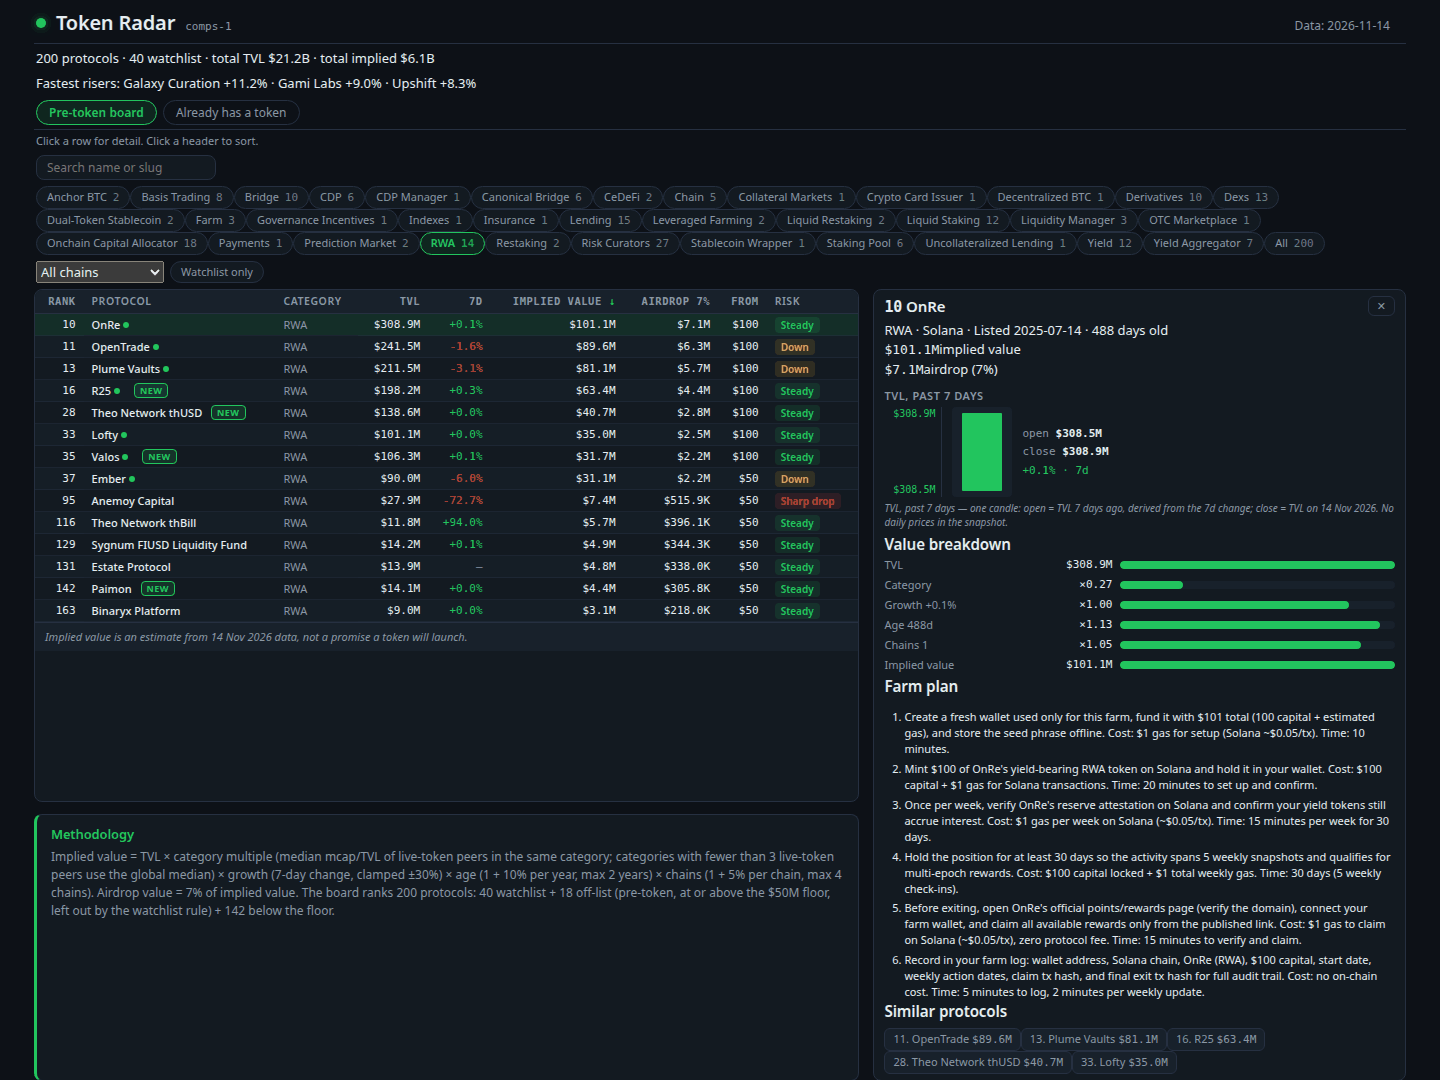
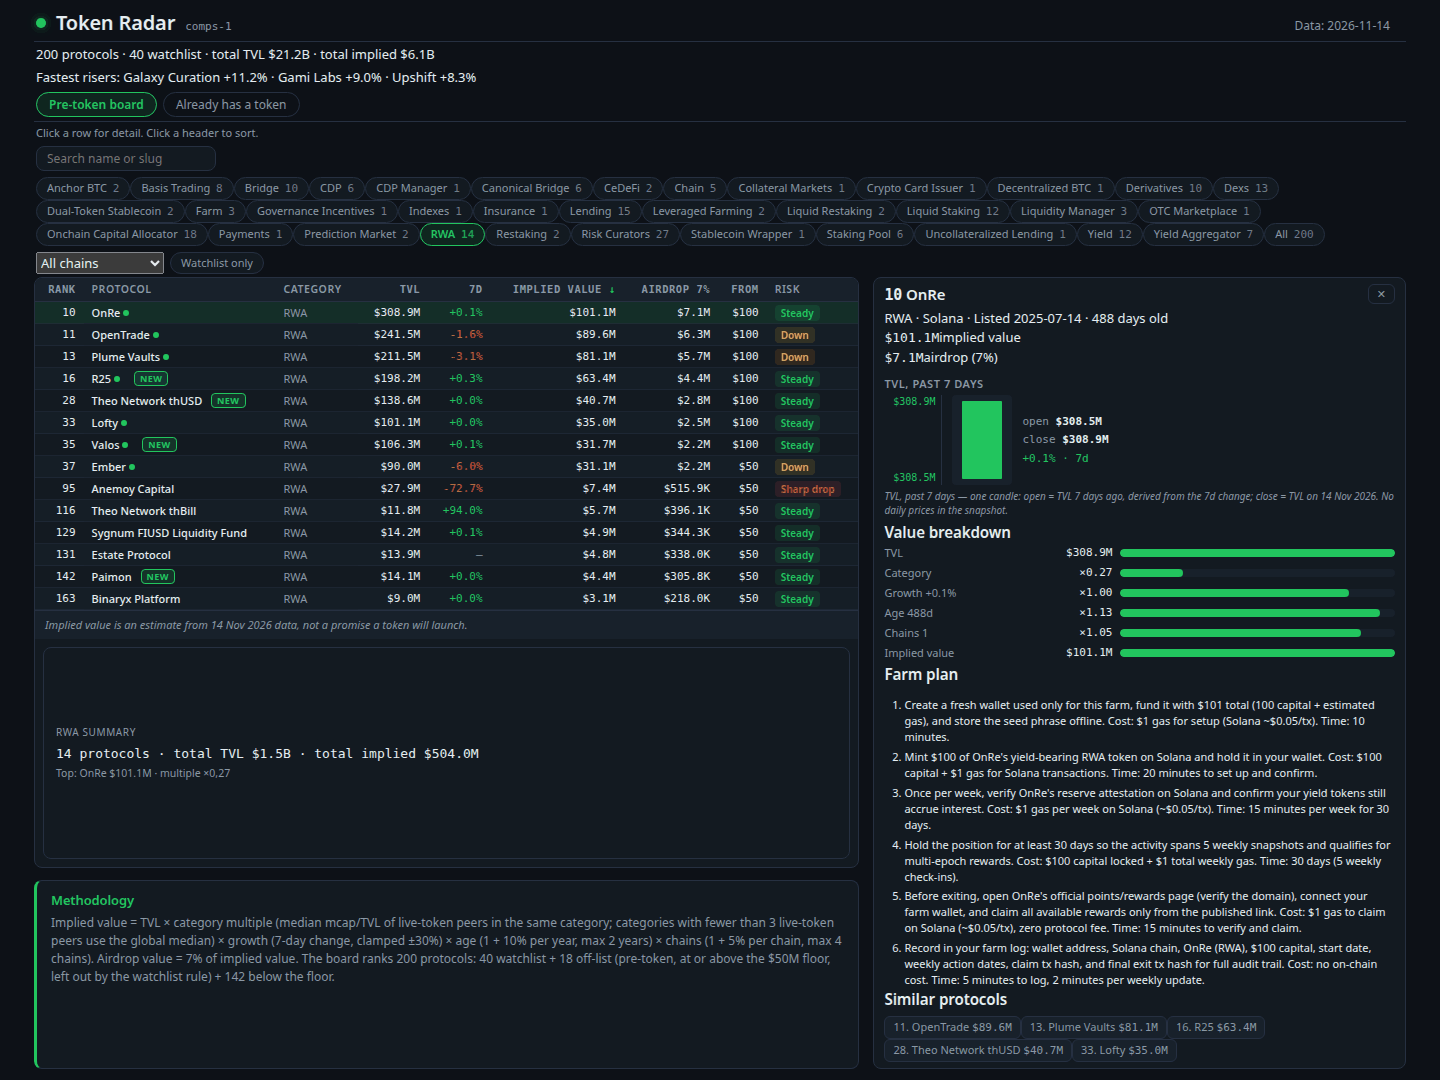
Fase 7: kartu ringkasan di bawah board (isi gap hero + RWA) + shave frame 1080

diff --git a/dashboard/app.js b/dashboard/app.js
@@ -149,6 +149,7 @@
       S.watchlistOnly = !S.watchlistOnly; renderFilters(); renderBoard();
     }));
     f.insertBefore(chips, sel);
+    renderSummary();
   }
 
   function riskOf(r) {
@@ -198,6 +199,94 @@
       });
       body.appendChild(tr);
     });
+    renderSummary();
+  }
+
+
+  function renderSummary() {
+    var el = $('summary');
+    if (!el) return;
+    var list = filtered();
+    var isHero = HERO || SPLIT_VIEW;
+    var isCategory = S.category !== 'all';
+    var isWatchlist = S.watchlistOnly;
+    var isSearch = S.q.trim() !== '';
+    var label = '';
+    var html = '';
+
+    if (!isHero) {
+      el.innerHTML = '';
+      return;
+    }
+
+    // Determine which rows to use for summary
+    var summaryRows = list;
+    var useAllRows = !isCategory && !isWatchlist && !isSearch;
+
+    if (useAllRows) {
+      // Hero view without filters: use ALL rows (not sliced to 30)
+      summaryRows = rows;
+      var totalTvl = 0, totalImp = 0;
+      summaryRows.forEach(function(r) { totalTvl += r.tvl_usd || 0; totalImp += r.implied_value_usd || 0; });
+      var watchlistRows = summaryRows.filter(function(r) { return wl.has(r.slug); });
+      var offListRows = summaryRows.filter(function(r) { return !wl.has(r.slug) && (r.tvl_usd || 0) >= (R.floor_usd || 50000000); });
+      var belowFloorRows = summaryRows.filter(function(r) { return !wl.has(r.slug) && (r.tvl_usd || 0) < (R.floor_usd || 50000000); });
+      label = 'Board summary';
+      html = '<div class="summary-label">' + esc(label) + '</div>' +
+        '<div class="summary-value">' + esc(summaryRows.length) + ' protocols · watchlist ' + esc(watchlistRows.length) + '/' + esc(wl.size) +
+        ' · off-list ' + esc(offListRows.length) + ' · below floor ' + esc(belowFloorRows.length) + '</div>' +
+        '<div class="summary-detail">Total TVL ' + money(totalTvl) + ' · Total implied ' + money(totalImp) + '</div>';
+    } else if (isCategory) {
+      // Category filter active
+      var cat = S.category;
+      var catRows = rows.filter(function(r) { return r.category === cat; });
+      var totalTvl = 0, totalImp = 0;
+      catRows.forEach(function(r) { totalTvl += r.tvl_usd || 0; totalImp += r.implied_value_usd || 0; });
+      // Find top by implied
+      var top = catRows.slice().sort(function(a, b) { return (b.implied_value_usd || 0) - (a.implied_value_usd || 0); })[0];
+      // Get category multiple from first row (all same category have same multiple)
+      var mult = catRows.length > 0 ? catRows[0].category_multiple : 0;
+      label = esc(cat) + ' summary';
+      html = '<div class="summary-label">' + label + '</div>' +
+        '<div class="summary-value">' + esc(catRows.length) + ' protocols · total TVL ' + money(totalTvl) + ' · total implied ' + money(totalImp) + '</div>' +
+        '<div class="summary-detail">Top: ' + esc(top ? top.name : '—') + ' ' + money(top ? top.implied_value_usd : 0) + ' · multiple ×' + (mult ? mult.toFixed(2).replace('.', ',') : '—') + '</div>';
+    } else if (isWatchlist) {
+      // Watchlist only
+      var wlRows = rows.filter(function(r) { return wl.has(r.slug); });
+      var totalTvl = 0, totalImp = 0;
+      wlRows.forEach(function(r) { totalTvl += r.tvl_usd || 0; totalImp += r.implied_value_usd || 0; });
+      var top = wlRows.slice().sort(function(a, b) { return (b.implied_value_usd || 0) - (a.implied_value_usd || 0); })[0];
+      label = 'Watchlist summary';
+      html = '<div class="summary-label">' + label + '</div>' +
+        '<div class="summary-value">' + esc(wlRows.length) + ' protocols · total TVL ' + money(totalTvl) + ' · total implied ' + money(totalImp) + '</div>' +
+        '<div class="summary-detail">Top: ' + esc(top ? top.name : '—') + ' ' + money(top ? top.implied_value_usd : 0) + '</div>';
+    } else {
+      // Combined filters (search, chain, etc.) - use currently displayed rows
+      var dispRows = list; // already filtered, but may be sliced to 30 in hero
+      // For combined filters, we should use the filtered list (not sliced)
+      var filteredAll = rows.filter(function(r) {
+        if (S.category !== 'all' && r.category !== S.category) return false;
+        if (S.chain !== 'all' && !(r.chains || []).includes(S.chain)) return false;
+        if (S.watchlistOnly && !wl.has(r.slug)) return false;
+        var q = S.q.trim().toLowerCase();
+        if (q && r.name.toLowerCase().indexOf(q) < 0 && r.slug.toLowerCase().indexOf(q) < 0) return false;
+        return true;
+      });
+      var totalTvl = 0, totalImp = 0;
+      filteredAll.forEach(function(r) { totalTvl += r.tvl_usd || 0; totalImp += r.implied_value_usd || 0; });
+      var top = filteredAll.slice().sort(function(a, b) { return (b.implied_value_usd || 0) - (a.implied_value_usd || 0); })[0];
+      var parts = [];
+      if (S.category !== 'all') parts.push('category: ' + esc(S.category));
+      if (S.chain !== 'all') parts.push('chain: ' + esc(S.chain));
+      if (S.watchlistOnly) parts.push('watchlist');
+      if (S.q.trim()) parts.push('search: "' + esc(S.q.trim()) + '"');
+      label = 'Filtered: ' + parts.join(', ');
+      html = '<div class="summary-label">' + esc(label) + '</div>' +
+        '<div class="summary-value">' + esc(filteredAll.length) + ' protocols · total TVL ' + money(totalTvl) + ' · total implied ' + money(totalImp) + '</div>' +
+        '<div class="summary-detail">Top: ' + esc(top ? top.name : '—') + ' ' + money(top ? top.implied_value_usd : 0) + '</div>';
+    }
+
+    el.innerHTML = html;
   }
 
   function renderTabs() {
@@ -218,6 +307,7 @@
     if (board) board.hidden = S.tab !== 'board';
     if (live) live.hidden = S.tab !== 'live';
     if (S.tab === 'live' && typeof window.renderLive === 'function') window.renderLive();
+    renderSummary();
   }
 
   renderStats();

diff --git a/dashboard/app.css b/dashboard/app.css
@@ -32,12 +32,12 @@ button, input, select { font: inherit; color: inherit; }
 button { cursor: pointer; }
 :focus-visible { outline: 2px solid var(--accent); outline-offset: 1px; }
 
-.shell { max-width: 1400px; margin: 0 auto; padding: 6px 14px 12px; }
+.shell { max-width: 1400px; margin: 0 auto; padding: 6px 14px 4px; }
 
 /* Header */
 .top {
   display: flex; align-items: baseline; justify-content: space-between; gap: 12px;
-  padding: 2px 2px 6px; border-bottom: 1px solid var(--border);
+  padding: 2px 2px 4px; border-bottom: 1px solid var(--border);
 }
 .brand { display: flex; align-items: baseline; gap: 10px; }
 .brand h1 { font-size: 20px; }
@@ -48,7 +48,7 @@ button { cursor: pointer; }
 .top-meta span { white-space: nowrap; }
 
 /* Generic strips */
-.strip { display: flex; flex-wrap: wrap; gap: 8px; padding: 5px 2px; align-items: stretch; }
+.strip { display: flex; flex-wrap: wrap; gap: 8px; padding: 3px 2px; align-items: stretch; }
 .risers { padding-top: 1px; }
 
 /* Stats: small fact cards */
@@ -87,7 +87,7 @@ button { cursor: pointer; }
 .howto b { color: var(--ink); font-weight: 600; }
 
 /* Filter row */
-.filters { display: flex; flex-wrap: wrap; align-items: center; gap: 6px; padding: 3px 2px 6px; }
+.filters { display: flex; flex-wrap: wrap; align-items: center; gap: 6px; padding: 2px 2px 3px; }
 .chip {
   background: var(--surface); border: 1px solid var(--border); border-radius: 999px;
   color: var(--muted); padding: 2px 10px; font-size: 11px; white-space: nowrap;
@@ -267,7 +267,7 @@ button { cursor: pointer; }
 .hero #tabs, .hero #howto { display: none; }
 .hero #filters {
   display: flex; flex-wrap: wrap; align-items: center; gap: 4px;
-  grid-column: 1 / -1; grid-row: 4; padding: 3px 2px 5px;
+  grid-column: 1 / -1; grid-row: 4; padding: 2px 2px 3px;
   min-width: 0;
 }
 .hero #filters .chip { font-size: 10px; padding: 1px 8px; }
@@ -276,11 +276,11 @@ button { cursor: pointer; }
 .hero #filters input[type="search"], .hero #filters input[type="text"] { width: 140px; }
 .hero .board-wrap { grid-column: 1; grid-row: 5; }
 .hero #detail { grid-column: 2; grid-row: 5; margin-top: 0; }
-.hero #live { grid-column: 1 / -1; grid-row: 6; margin-top: 2px; padding: 3px 12px; font-size: 11.5px; color: var(--muted); }
+.hero #live { grid-column: 1 / -1; grid-row: 6; margin-top: 0; padding: 2px 12px; font-size: 11.5px; color: var(--muted); }
 .hero #live strong { color: var(--accent); }
 .hero #method {
   display: block; grid-column: 1 / -1; grid-row: 7;
-  margin-top: 2px; padding: 5px 10px;
+  margin-top: 0; padding: 2px 10px;
 }
 .hero #method h2 { font-size: 12px; margin-bottom: 2px; }
 .hero #method .cat-multiples, .hero #method .method-honest { display: none; }
@@ -379,3 +379,47 @@ button { cursor: pointer; }
 
 /* Hide the empty detail panel until a row is clicked. */
 .detail:empty { display: none; }
+
+/* Summary card below board in hero view */
+.board-wrap { display: flex; flex-direction: column; }
+.board-wrap .summary {
+  flex: 1;
+  min-height: 140px;
+  border: 1px solid var(--border);
+  border-radius: var(--radius);
+  background: var(--surface);
+  margin: 8px;
+  padding: 10px 12px;
+  font-size: 11px;
+  line-height: 1.5;
+  color: var(--ink);
+  display: flex;
+  flex-direction: column;
+  justify-content: center;
+}
+.board-wrap .summary:empty { display: none; }
+
+.summary:empty {
+  display: none;
+}
+
+.summary .summary-label {
+  color: var(--muted);
+  font-size: 10px;
+  text-transform: uppercase;
+  letter-spacing: 0.06em;
+  margin-bottom: 4px;
+}
+
+.summary .summary-value {
+  font-family: var(--font-num);
+  font-size: 13px;
+  font-weight: 500;
+}
+
+.summary .summary-detail {
+  color: var(--muted);
+  font-size: 10.5px;
+  margin-top: 2px;
+}
+

diff --git a/dashboard/index.html b/dashboard/index.html
@@ -50,6 +50,7 @@
       <tbody id="board-body"></tbody>
     </table>
     <p id="honest" class="honest"></p>
+    <section id="summary" class="summary" aria-label="Board summary"></section>
   </section>
 
   <section id="detail" class="detail" aria-label="Protocol detail"></section>
